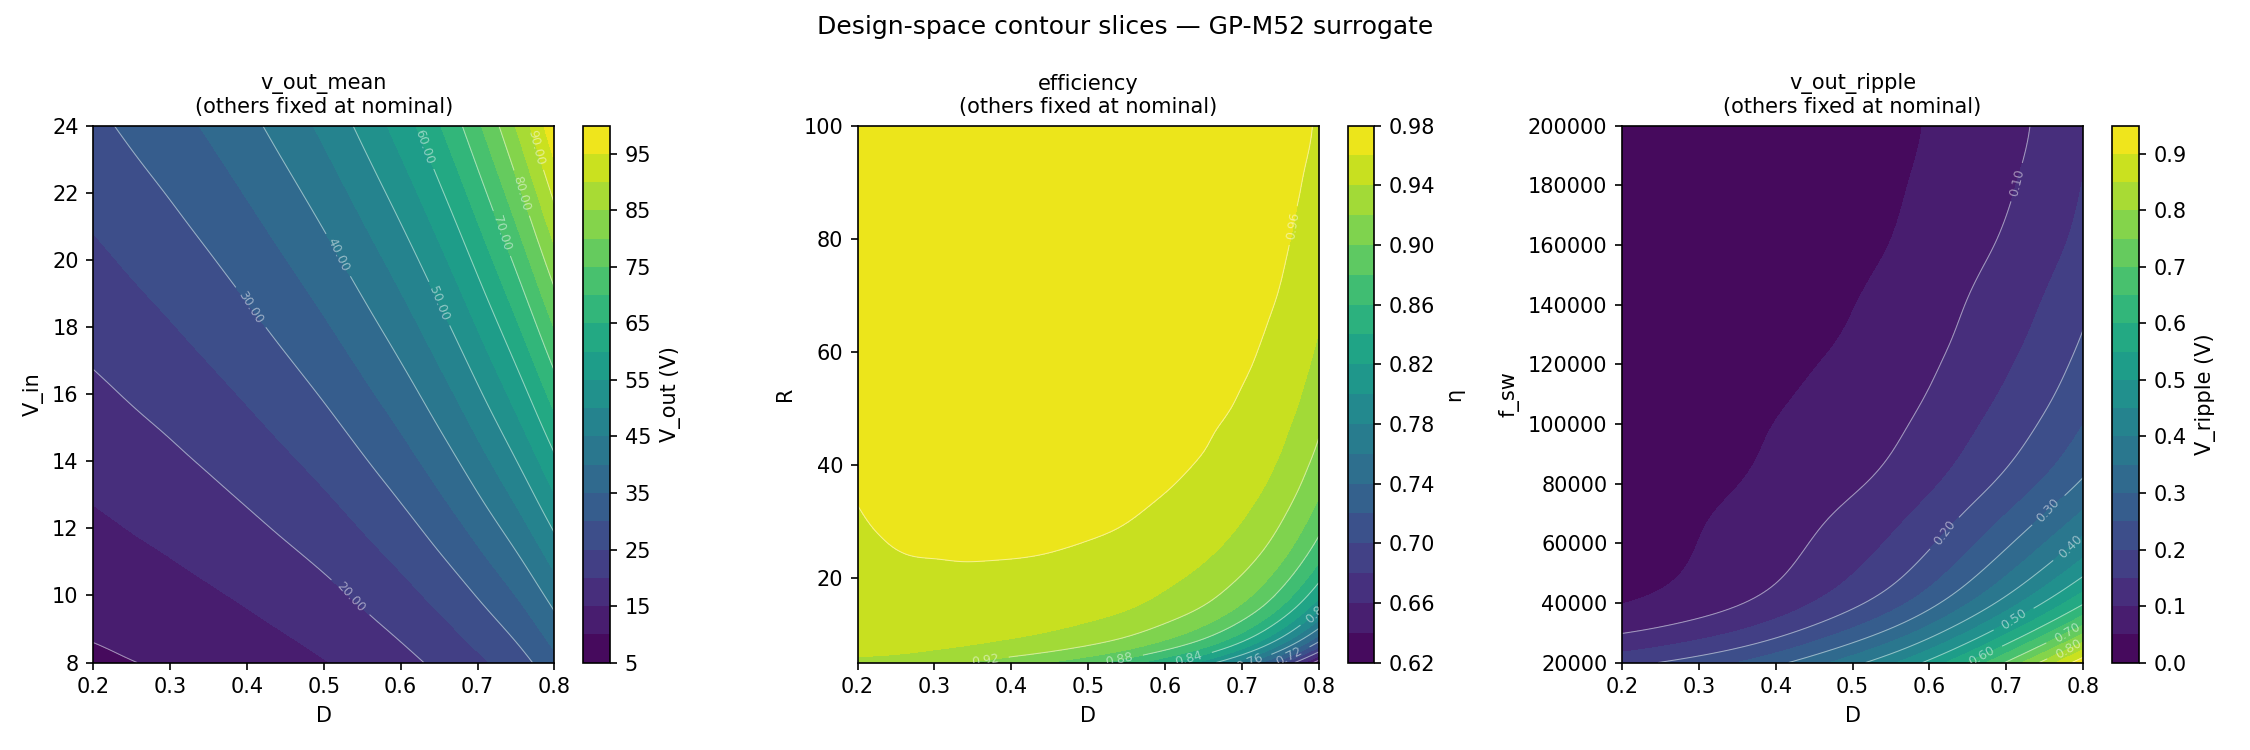
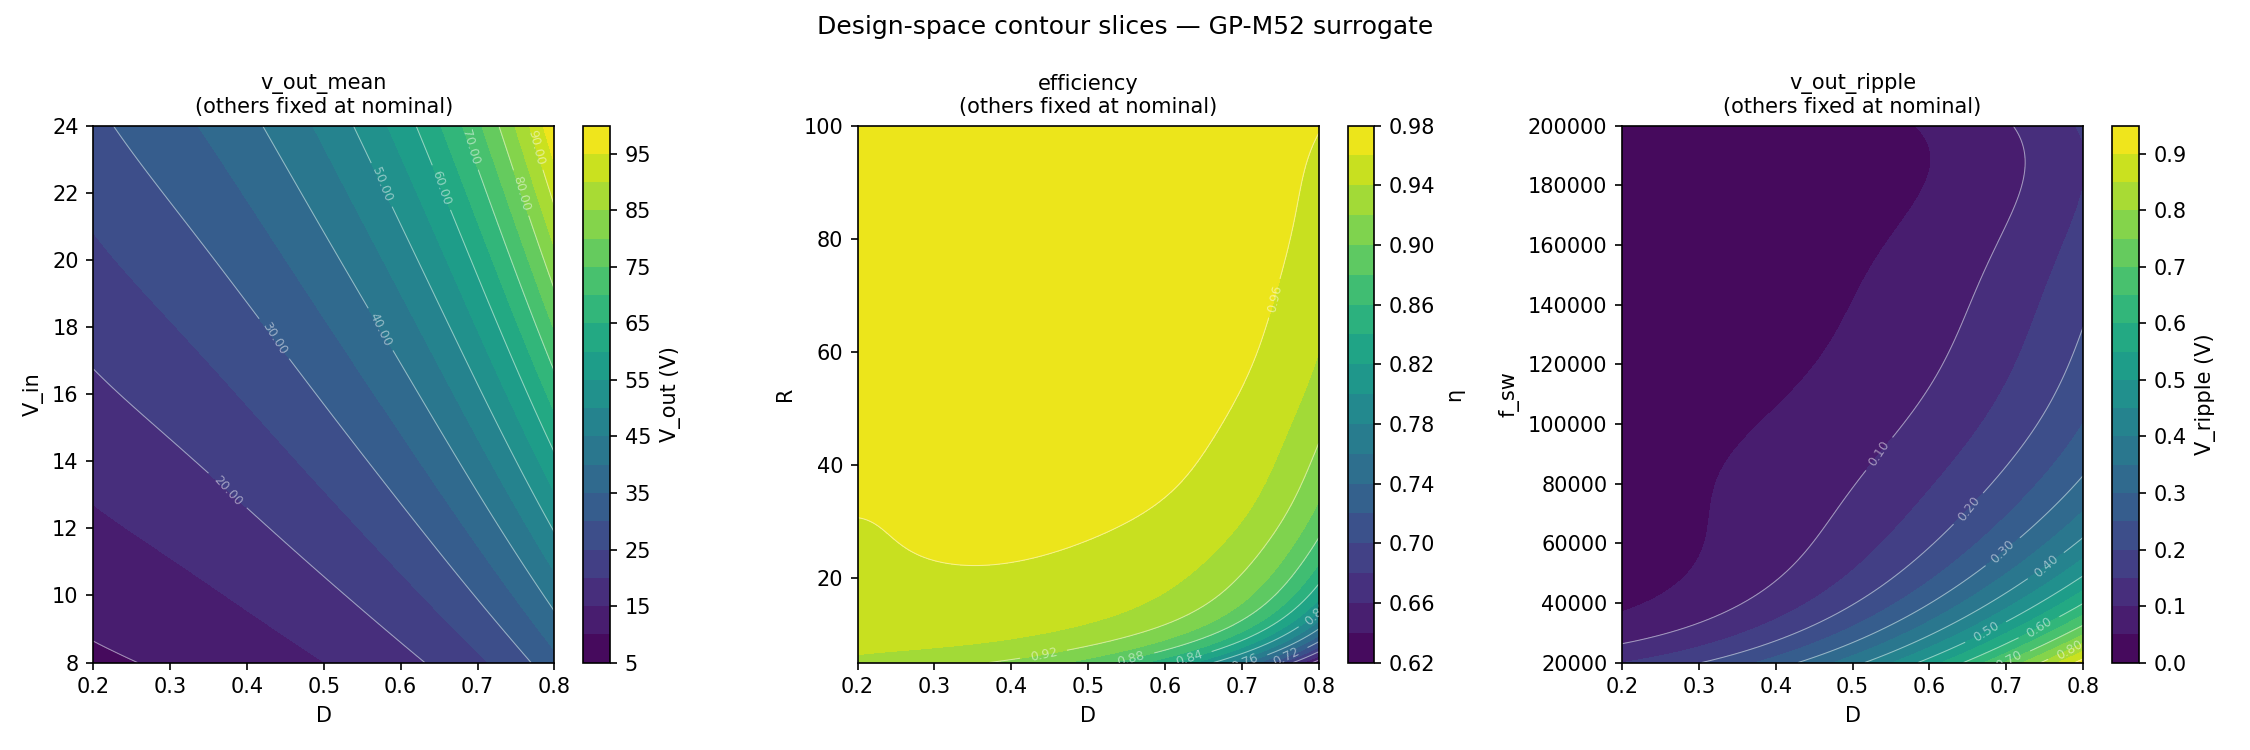
Fix: rerun Sobol/Morris/SHAP with GP-SE instead of GP-M52

diff --git a/scripts/phase5_engineering_insight.py b/scripts/phase5_engineering_insight.py
@@ -74,7 +74,7 @@ FIG.mkdir(parents=True, exist_ok=True)
 TRAIN_CSV = ROOT / "outputs" / "phase2" / "train_200.csv"
 TEST_CSV  = ROOT / "outputs" / "phase2" / "test_500.csv"
 
-BEST_MODEL = "GP-M52"
+BEST_MODEL = "GP-SE"
 BUILD = {cid: fn for cid, _, fn in MODEL_REGISTRY}
 
 MODEL_COLOR = {
